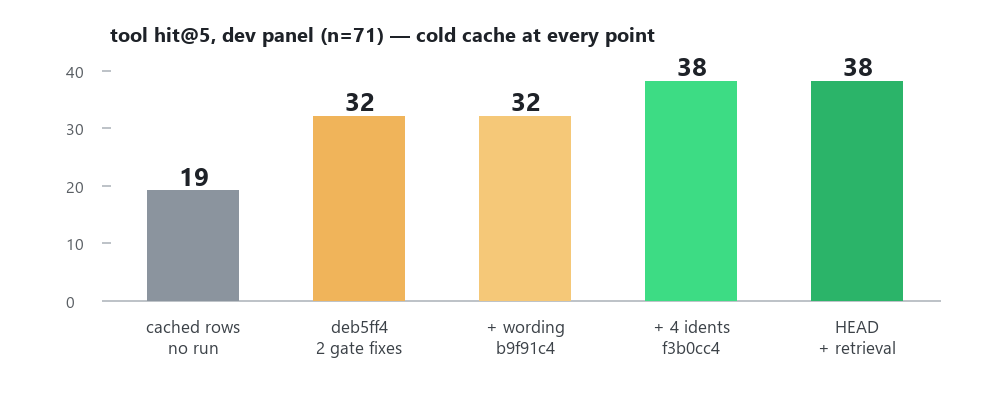
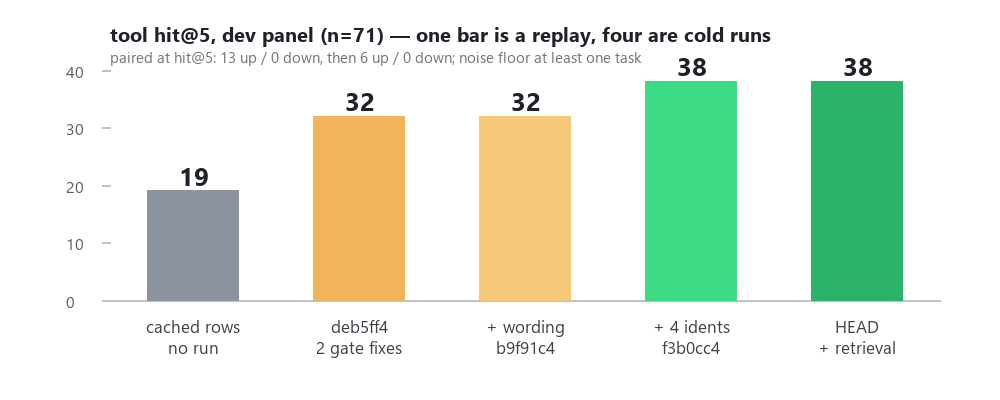
docs(blog): fix the panel table and the figures

Changed region(s): [[0.124, 0.06, 0.775, 0.18]]

diff --git a/docs/blog/benchmark-cache-said-no-change.md b/docs/blog/benchmark-cache-said-no-change.md
@@ -1,14 +1,14 @@
----
+---
 title: "My Benchmark Said 'No Change' Three Times. It Was Reading a Cache Committed to Git."
 published: false
-description: "0.2 minutes, identical numbers. My harness resumed from a 71-row capture in git. Cleared, the same panel reads 19 → 32 → 38 across five code states, and one list slice accounts for the whole gap."
+description: "0.2 minutes, identical numbers. My harness resumed from a 71-row capture in git. Cleared, the same panel reads 19 → 32 → 38 across five code states — and six of those tasks came back from one list slice."
 tags: devtools, testing, python, ai
 cover_image: https://raw.githubusercontent.com/ManSio/mscodebase-intelligence/main/docs/blog/assets/benchmark-cache-cover.png
 ---
 
-> **Part 5 of: [MSCodeBase Intelligence — Field Notes](https://github.com/ManSio/mscodebase-intelligence/tree/main/docs/blog)** — *[Part 1: PageRank](https://dev.to/mansio/i-measured-pagerank-token-savings-on-a-real-codebase-the-result-will-surprise-you-5bnj) · [Part 2: Silent Vector Contamination](https://dev.to/mansio/the-silent-vector-contamination-bug-why-your-concurrent-embeddings-might-be-lying-to-you-5fg7) · [Part 3: Verify-on-Read](https://dev.to/mansio/the-mechanical-vs-the-semantic-what-happens-when-ai-memory-is-wrong-38ko) · [Part 4: Bootstrap Pipeline](https://dev.to/mansio/from-a-test-suite-trace-to-a-search-signal-the-bootstrap-pipeline-story-407b) · Part 5*
+> **Part 5 of: [MSCodeBase Intelligence — Field Notes](https://github.com/ManSio/mscodebase-intelligence/tree/main/docs/blog)** — *[Part 1: PageRank](https://dev.to/mansio/i-measured-pagerank-token-savings-on-a-real-codebase-the-result-will-surprise-you-5bnj) · [Part 2: Silent Vector Contamination](https://dev.to/mansio/the-silent-vector-contamination-bug-why-your-concurrent-embeddings-might-be-lying-to-you-5fg7) · [Part 3: Verify-on-Read](https://dev.to/mansio/the-mechanical-vs-the-semantic-what-happens-when-ai-memory-is-wrong-38ko) · [Part 4: Bootstrap Pipeline](https://dev.to/mansio/from-a-test-suite-trace-to-a-search-signal-the-bootstrap-pipeline-story-407b) · **Part 5 (this post)**
 
-> **TL;DR:** my benchmark printed the same numbers for four days because it was resuming from a 71-row capture file committed to git. With the cache cleared, the same panel on the same machine reads **19 → 32 → 38** across five code states. The number I published as a design trade-off was a disk read — and the fix that closes the gap is a two-item list slice.
+> **TL;DR:** my benchmark printed the same numbers for four days because it was resuming from a 71-row capture file committed to git. With the cache cleared, the same panel on the same machine reads **19 → 32 → 38** across five code states. The number I published as a design trade-off was a disk read — and six of those tasks came back when a two-item list slice was fixed.
 
 ![A terminal that says "resuming: 71 tasks already captured" next to 19 → 38 and "0.2 min vs 6.1 min"](https://raw.githubusercontent.com/ManSio/mscodebase-intelligence/main/docs/blog/assets/benchmark-cache-cover.png)
 
@@ -36,11 +36,13 @@ The dev split, 71 solvable tasks:
 | arm | hit@1 | hit@5 | any@8 |
 |---|---:|---:|---:|
 | tool (default) | 12 | **19** | 23 |
-| tool + neighbours | 24 | 37 | 44 |
-| search channel alone | 10 | 24 | 29 |
+| tool + neighbours | 24 | 38 | 44 |
+| search channel alone | 11 | 22 | 29 |
 | grep (floor) | 0 | 2 | 6 |
 
-Both pre-registered bars failed, in the gate's own words: **P1 FAIL (default 0.268 < 0.35)** and **P2 FAIL (default is 5 below plain search on dev)**.
+These are the numbers in the committed capture — the same four rows the replay prints today. (The `E68` log entry was written from an earlier run of the same panel and says 37 and 24; the capture and `REPORT.md` agree on 38 and 22, and the capture is the thing that was replayed, so I quote the capture.)
+
+Both pre-registered bars failed: **P1 FAIL (default 0.268 < 0.35)**, and on dev the default answers 19 where the plain search channel answers 22 — the log's own words are "5 below plain search", which uses its `search = 24` row.
 
 So I did what a benchmark owner should do: I classified the misses. All 52 of them:
 
@@ -103,7 +105,7 @@ Same machine, same index, same 71 tasks, cache cleared where it says so:
 
 ![Bar chart: tool hit@5 on the dev panel at five points, 19 cached rows, 32 at deb5ff4, 32 after the wording fix, 38 after the identifier fix, 38 at HEAD](https://raw.githubusercontent.com/ManSio/mscodebase-intelligence/main/docs/blog/assets/benchmark-cache-bars.png)
 
-The first row is the tell. **19 came from a file, not from a run.** The same HEAD code that scores 38 in six minutes scores 19 in twelve seconds, because twelve seconds is how long it takes to read 71 answers off a disk.
+The first row is the tell. **19 came from a file, not from a run.** The same command, on the same HEAD code, prints 19 in twelve seconds — because those numbers were written by an older product and stored on disk. Twelve seconds is how long it takes to read 71 answers back.
 
 Paired at hit@5, task by task: cached rows vs `deb5ff4` — **13 up, 0 down**; `deb5ff4` vs HEAD — **6 up, 0 down**.
 
@@ -148,8 +150,8 @@ The first version of this post said I could not attribute the +19. Then I ran th
 | point | what changed in the product | tool hit@5 | wall clock |
 |---|---|---:|---:|
 | cached rows | nothing — a replay of 10 Nov | 19 | 0.2 min |
-| `deb5ff4` | hashes are not identifiers; refusal needs *no* identifier | **32** | 13.5 min |
-| `b9f91c4` | the warning stops calling a real hit a neighbour | 32 | 7.7 min |
+| `deb5ff4` | hashes are not identifiers; refusal needs *no* identifier | **32** | 6.0 min |
+| `b9f91c4` | the warning stops calling a real hit a neighbour | 32 | 13.5 min |
 | `f3b0cc4` | the grep channel counts all four identifiers, not two | **38** | 7.7 min |
 | HEAD | + ONNX batch padding, + vector-schema width | 38 | 6.1 min |
 
@@ -162,7 +164,7 @@ Read it as a decomposition:
 - **The two retrieval commits are worth zero here.** ONNX batch padding and vector-schema width cannot move a text-index panel, and they didn't.
 - **The 13 tasks between the cached rows and `deb5ff4` belong to the two November gate fixes as a pair.** Splitting them costs two more runs of six minutes; I did not do it, so they stay a pair.
 
-That is the whole trade-off I published, at the bottom of a list slice.
+Six of those nineteen tasks — the part I had published as a design trade-off — were at the bottom of a list slice. The other thirteen belong to the two November fixes I still did not split.
 
 ## What the policy actually costs
 
@@ -182,22 +184,35 @@ grep                      0      2      6   0.051
 
 ## Reproduce
 
-One panel, one command per point. The cache is opt-in now, so a cold run is the default:
+One panel, two runners. A cold run is the default now — the cache is opt-in:
 
 ```bash
-git worktree add ../wt-<full-sha> <full-sha>   # deb5ff4, b9f91c4, f3b0cc4
+git worktree add ../wt-deb5ff4 deb5ff4536cdd2f960faba686e35b4b4c4443250
+cd ../wt-deb5ff4
+git rev-parse HEAD                      # must print deb5ff4536...
 python experiments/bench_2026_11/run.py --split dev
 ```
 
 Two guards before you trust the output:
 
 1. `resuming:` must not appear anywhere in it. If it does, you are reading a file, not a run.
-2. Anything under three minutes did not execute 71 tasks.
+2. A run that finishes in under three minutes did not execute 71 tasks.
 
-The panel is frozen: `tasks.jsonl` hashes to `71395d45…`, the first line of `MANIFEST.sha256`, and the corpus is a worktree at `7c2c7a3`. On Windows, hash the blob, not the checkout — `core.autocrlf` will give you a different digest and make it look like the panel changed:
+The `cd` and the `rev-parse` are not decoration. Miss the `cd` and you run the harness of whatever repository you were standing in — which is exactly how my first attempt at this series produced two "runs" of a commit that was never checked out.
+
+The panel also needs its corpus. `run.py` hardcodes it near the top (line 36) to a `bench-B` worktree sitting next to the repository — a worktree of this repository at the frozen base, indexed once:
 
 ```bash
-git show HEAD:experiments/bench_2026_11/tasks.jsonl | git hash-object --stdin
+git worktree add ../bench-B 7c2c7a3c6417539bc08f807d6790fe6e722d3a84
+python scripts/reindex_text_only.py --project ../bench-B
+```
+
+Keep the corpus anywhere you like, but change that line, or the run stops with `project_path does not exist`.
+
+The panel is frozen: `tasks.jsonl` hashes to `71395d45…`, the first line of `MANIFEST.sha256`. Hash its **blob**, not your checkout: on Windows `core.autocrlf` rewrites line endings, and a PowerShell pipe re-encodes the stream, so the obvious `git show … | git hash-object` returns a different digest and makes it look like the panel was swapped:
+
+```bash
+python -c "import hashlib,subprocess as s;print(hashlib.sha256(s.run(['git','show','HEAD:experiments/bench_2026_11/tasks.jsonl'],capture_output=True).stdout).hexdigest())"
 ```
 
 The external arms need no capture at all: `external.py` rebuilds every task from `git log` and `git show` on each run, which is why they are the part of this benchmark that cannot replay an old answer.
@@ -205,18 +220,18 @@ The external arms need no capture at all: `external.py` rebuilds every task from
 ## Red Team
 
 - **The dev panel is not held out.** The gate defects were found on `sqlalchemy` and in code review, then measured on dev. The +13 and the +6 are in-sample.
-- **My harness's noise floor is one task.** Two identical control runs at `deb5ff4`, cache cleared both times, gave the neighbours arm 37 and then 38 at hit@5. The tool arm held at 32. So ±1 is noise, and the +1 on each external repo sits exactly on that floor.
-- **Environment is not fully excluded.** Both control runs fell back to a degraded ONNX path ("server did not start in 60s"); the HEAD run did not. The search arm is identical everywhere, which suggests retrieval was untouched — but "suggests" is the word, and I did not get a HEAD run under fallback.
+- **My harness's noise floor is at least one task.** Two identical control runs at `deb5ff4`, cache cleared both times, gave the neighbours arm 37 and then 38 at hit@5. The tool arm held at 32. Two runs are not a distribution, but they are enough to say the floor is *at least* one task — and the +1 on each external repo sits exactly on it.
+- **Environment is not excluded, but it is bounded.** Every cold run except HEAD fell back to a degraded ONNX path ("server did not start in 60s") — including `f3b0cc4`, which fell back and still scored 38, exactly like HEAD without the fallback. The fallback does not move this panel; the search arm is identical in every run. What I did not do is force a fallback on HEAD to close it symmetrically.
 - **The 19 was a real measurement once.** It describes the product on 10 November. It was never a measurement of the code I shipped on 11 November, and both facts are true at the same time.
 - **CIs overlap.** 32/71 is [0.34, 0.57], 38/71 is [0.42, 0.65]. The paired direction is what carries the claim, not the interval.
 - **n=25 on `requests`.** One task is four percentage points. The +1 there is the smallest possible effect — it could be luck.
-- **A committed cache is a reproducibility landmine.** Anyone who clones this repo and runs the harness gets my November answers, in 0.2 minutes, with a `resuming` line they can read past just as easily as I did.
+- **A committed capture was a reproducibility landmine.** Between 10 and 14 November, anyone who cloned this repo and ran the harness got my November answers in 0.2 minutes, with a `resuming` line they could read past just as easily as I did. The file is still tracked; the harness no longer reads it without `--resume`.
 
 ## What I changed
 
 The harness now refuses to replay itself. Reuse is opt-in:
 
-```text
+```bash
 python experiments/bench_2026_11/run.py --split dev            # runs all 71 tasks
 python experiments/bench_2026_11/run.py --split dev --resume   # continues a dead run
 ```
@@ -247,6 +262,6 @@ No AI detectors were consulted in the making of this disclosure. They have enoug
 
 ---
 
-> **Disclaimer & Status:** draft (source-material for the article). This is not a "feature advertisement", but an honest engineering story: figures are reproducible, weak points are named, and unaddressed risks are listed in the "Red Team" and "What I cannot attribute" sections.
+> **Disclaimer & Status:** draft (source-material for the article). This is not a "feature advertisement", but an honest engineering story: figures are reproducible, weak points are named, and unaddressed risks are listed in the "Red Team" and "What each fix is actually worth" sections.
 
 *Raw artifacts: `experiments/bench_2026_11/` — the November capture as committed in `e033edc`, the fresh run outputs, both external result files and `REPORT.md`. The controls ran in a worktree at `deb5ff4`, `b9f91c4` and `f3b0cc4`; the panel hash in `MANIFEST.sha256` was unchanged, so no task was re-barred. Invalid runs, the old cache and the failed gates sit on disk next to the passing ones.*
